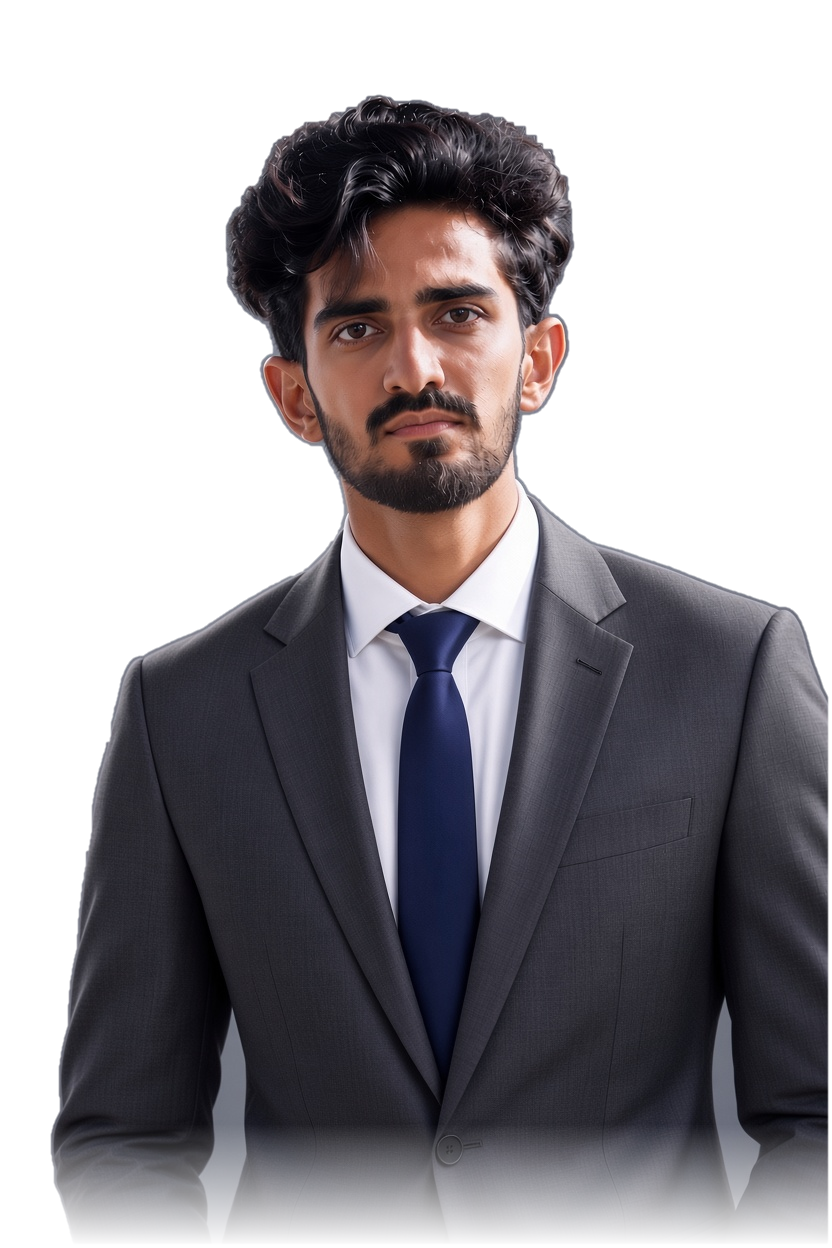
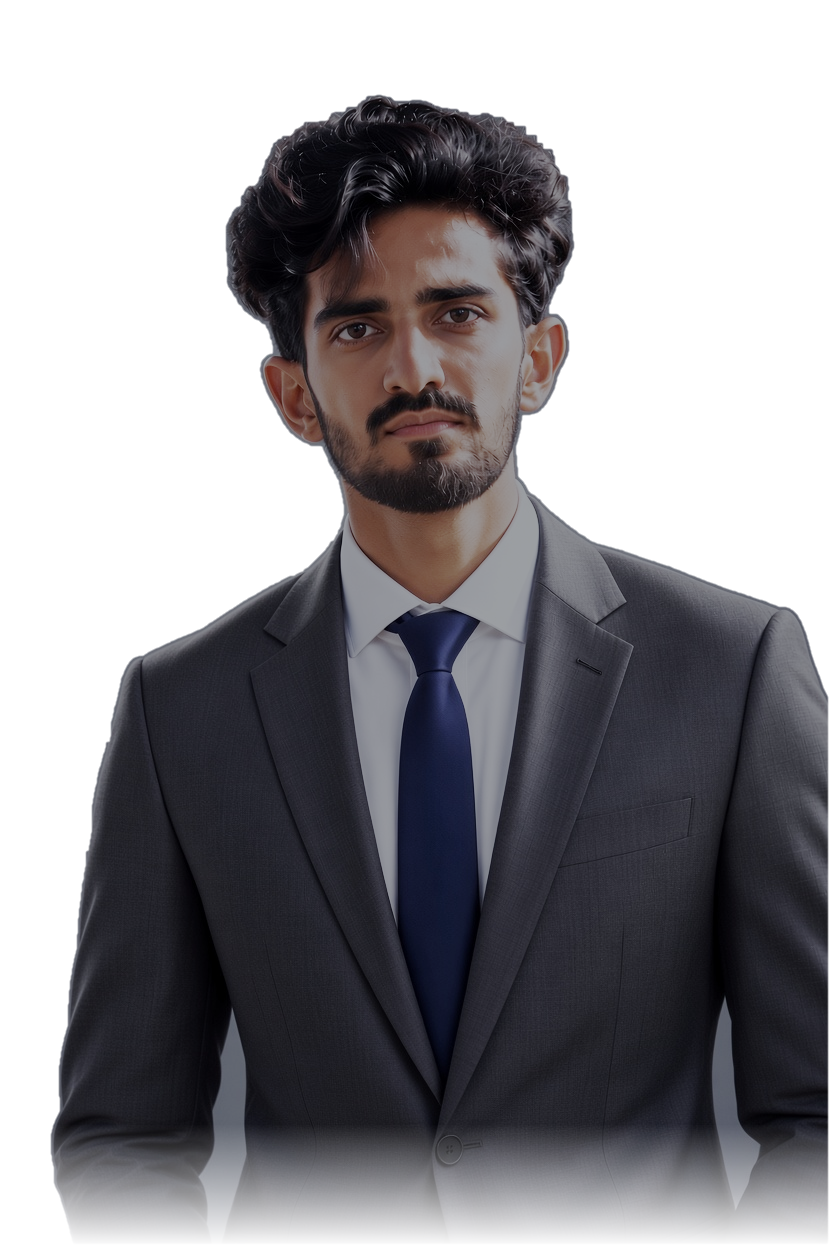
Colour-grade the hero portrait onto the dark page
The normal hero photo read as pasted onto the background rather than lit
by it. Measured first, and the obvious reading was wrong: the subject's
mean luminance is only 66, so it is not a bright image overall. The
problem was the top end -- p99 was 236 and 5% of the subject sat above
200 against a page at luminance 9, so the shirt and lit skin blew out.
Pulling everything down would have muddied the face and missed the cause.

scripts/cutout.py now compresses highlights and leaves midtones nearly
alone: a Reinhard-style rolloff above a 0.45 knee, a small exposure trim,
slight desaturation, and a cool bias toward the page's blue-violet. The
knee was chosen by rendering four settings side by side on the real
background; 0.35 was visibly flattening the face.

p99 236 -> 154, nothing above 200, mean 66 -> 54, face fully legible.

The robotic variant is deliberately left ungraded: it is meant to read as
lit from within, it is only seen inside the reveal, and dimming it would
defeat the effect. Grading the photo increased the contrast between the
two, so the AI version pops harder than before.

diff --git a/scripts/cutout.py b/scripts/cutout.py
@@ -58,7 +58,31 @@ band = int(H * 0.10)
 fade[H - band:] = np.linspace(1, 0, band)
 alpha *= fade[:, None]
 
-def emit(path_in, path_out, erode_px=0):
+def grade(rgb01):
+    """
+    Settle the photograph onto the page's near-black background.
+
+    The problem is not overall brightness — the subject's mean luminance is only 66 — it is the
+    top end: p99 was 236 and 5% of the subject sat above 200 against a page at luminance 9, so
+    the shirt and lit skin blew out and the cut-out read as pasted on rather than lit by the
+    scene. Pulling everything down would have muddied the face, so this compresses the
+    highlights instead and leaves the midtones nearly alone.
+
+    Reinhard-style rolloff above a knee, a small exposure trim, a touch of desaturation, and a
+    slight cool bias toward the page's blue-violet. Measured after: p99 236 -> 154, nothing above
+    200 at all, mean 66 -> 54, with the face still fully legible (a harder knee of 0.35 was
+    tried and started flattening it).
+    """
+    knee, exposure, cool, desat = 0.45, 0.88, 0.04, 0.92
+    y = np.where(rgb01 <= knee, rgb01, knee + (rgb01 - knee) / (1.0 + (rgb01 - knee) / (1.0 - knee)))
+    y = y * exposure
+    lum = (y * np.array([0.2126, 0.7152, 0.0722], np.float32)).sum(-1, keepdims=True)
+    y = lum + (y - lum) * desat
+    y = y * np.array([1.0 - cool, 1.0 - cool * 0.55, 1.0], np.float32)
+    return np.clip(y, 0.0, 1.0)
+
+
+def emit(path_in, path_out, erode_px=0, do_grade=False):
     """Apply the matte to an image and write an RGBA PNG."""
     rgb_src = Image.open(path_in).convert("RGB")
     if rgb_src.size != (W, H):
@@ -71,12 +95,15 @@ def emit(path_in, path_out, erode_px=0):
         # where the normal photo underneath covers the seam.
         a = ndimage.grey_erosion(a, size=(erode_px * 2 + 1, erode_px * 2 + 1))
         a = ndimage.gaussian_filter(a, 0.8)
-    data = np.dstack([np.asarray(rgb_src, np.uint8), (a * 255).astype(np.uint8)])
+    pixels = np.asarray(rgb_src, np.float32) / 255.0
+    if do_grade:
+        pixels = grade(pixels)
+    data = np.dstack([(pixels * 255).astype(np.uint8), (a * 255).astype(np.uint8)])
     Image.fromarray(data, "RGBA").save(path_out, optimize=True)
     return data
 
 
-out = emit("public/portrait2.jpeg", "public/portrait2-cutout.png")
+out = emit("public/portrait2.jpeg", "public/portrait2-cutout.png", do_grade=True)
 img = Image.fromarray(out, "RGBA")
 
 # The robotic variant is keyed with the **same matte**, not its own.
@@ -86,6 +113,8 @@ img = Image.fromarray(out, "RGBA")
 # its shoulders are broader -- so the reveal would show robot pixels sitting outside the human
 # outline, which is exactly the "spilling outside the profile image" the effect must not do.
 # Sharing one matte makes the two silhouettes pixel-identical and the containment structural.
+# Deliberately ungraded: the AI variant is meant to read as lit from within, and it is only
+# ever seen inside the reveal, where dimming it would defeat the effect.
 emit("public/robotic_portrait.jpeg", "public/robotic-portrait-cutout.png", erode_px=4)
 
 # Preview on the real page background so the silhouette can be judged in context.

diff --git a/PROGRESS.md b/PROGRESS.md
@@ -84,6 +84,29 @@ the connections.
 **0° → 0°** through the whole chain; under reduced motion movement is **0px** and labels are still
 upright. `build`, `lint`, `tsc --noEmit` clean.
 
+### Session 2 (cont.) — 2026-08-26 — Hero portrait colour-graded onto the dark page
+
+Abdul: the normal hero photo "is much brighter and doesnt look good on dark background".
+
+**Measured before choosing a fix, and the obvious reading was wrong.** The subject's mean
+luminance is only 66 — it is not a bright image overall. The problem is the top end: **p99 was
+236 and 5% of the subject sat above 200**, against a page at luminance 9. The shirt and lit skin
+were blowing out, which is what made the cut-out read as pasted on rather than lit by the scene.
+Pulling the whole image down would have muddied the face and missed the cause.
+
+So `scripts/cutout.py` gained a `grade()` step that **compresses highlights and leaves midtones
+nearly alone**: a Reinhard-style rolloff above a 0.45 knee, a small exposure trim, a little
+desaturation, and a slight cool bias toward the page's blue-violet. Chosen by rendering four
+knee settings side by side on the real background — 0.35 was visibly flattening the face.
+
+**Result: p99 236 → 154, nothing above 200 at all, mean 66 → 54**, face fully legible.
+
+**The robotic variant is deliberately left ungraded** and the call is worth keeping: it is meant
+to read as lit from within, it is only ever seen inside the reveal, and dimming it would defeat
+the effect. Grading the photo actually *increased* the contrast between the two, so the AI
+version now pops harder than before. About is untouched — it uses the raw photo with its
+background, per Abdul.
+
 ### Session 2 (cont.) — 2026-08-26 — The cursor gets a fixed appearance (third attempt, correct one)
 
 Two wrong fixes preceded this, both from misreading the same report. What Abdul's screenshots
